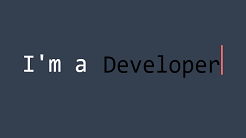
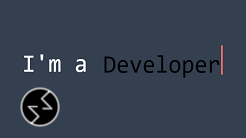
updated

Changed region(s): [[0.0569, 0.6087, 0.2561, 0.9275]]

diff --git a/app.html b/app.html
@@ -151,9 +151,9 @@
         </a>
       </td>
       <td>
-        <a href="#" class="btn btn-sm btn-primary my-1 my-sm-0">
+        <a href="images/portfoliopreview.png" class="btn btn-sm btn-primary my-1 my-sm-0">
           <span class="fas mr-1"></span>
-          Edit</a>
+          <img src="4.png"></a>
         <a href="#" class="btn btn-sm btn-danger my-1 my-sm-0">
           <span class="fas mr-1"></span>
           < / > Source &nbsp;&nbsp;<img src="images/octocat.png"></a>
